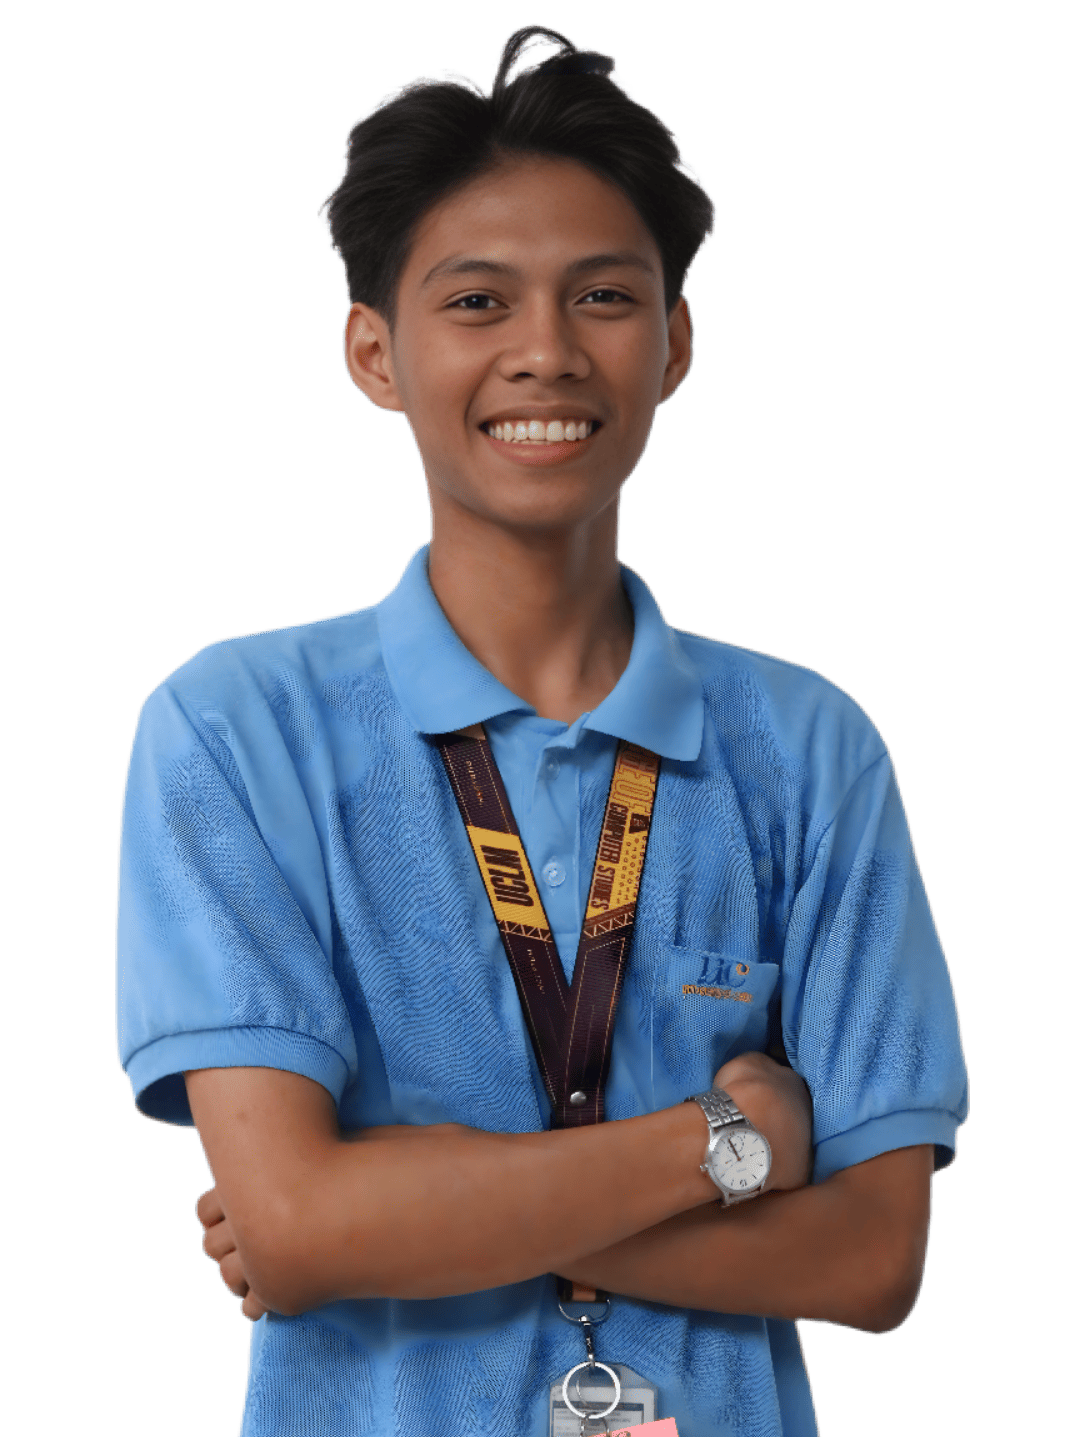
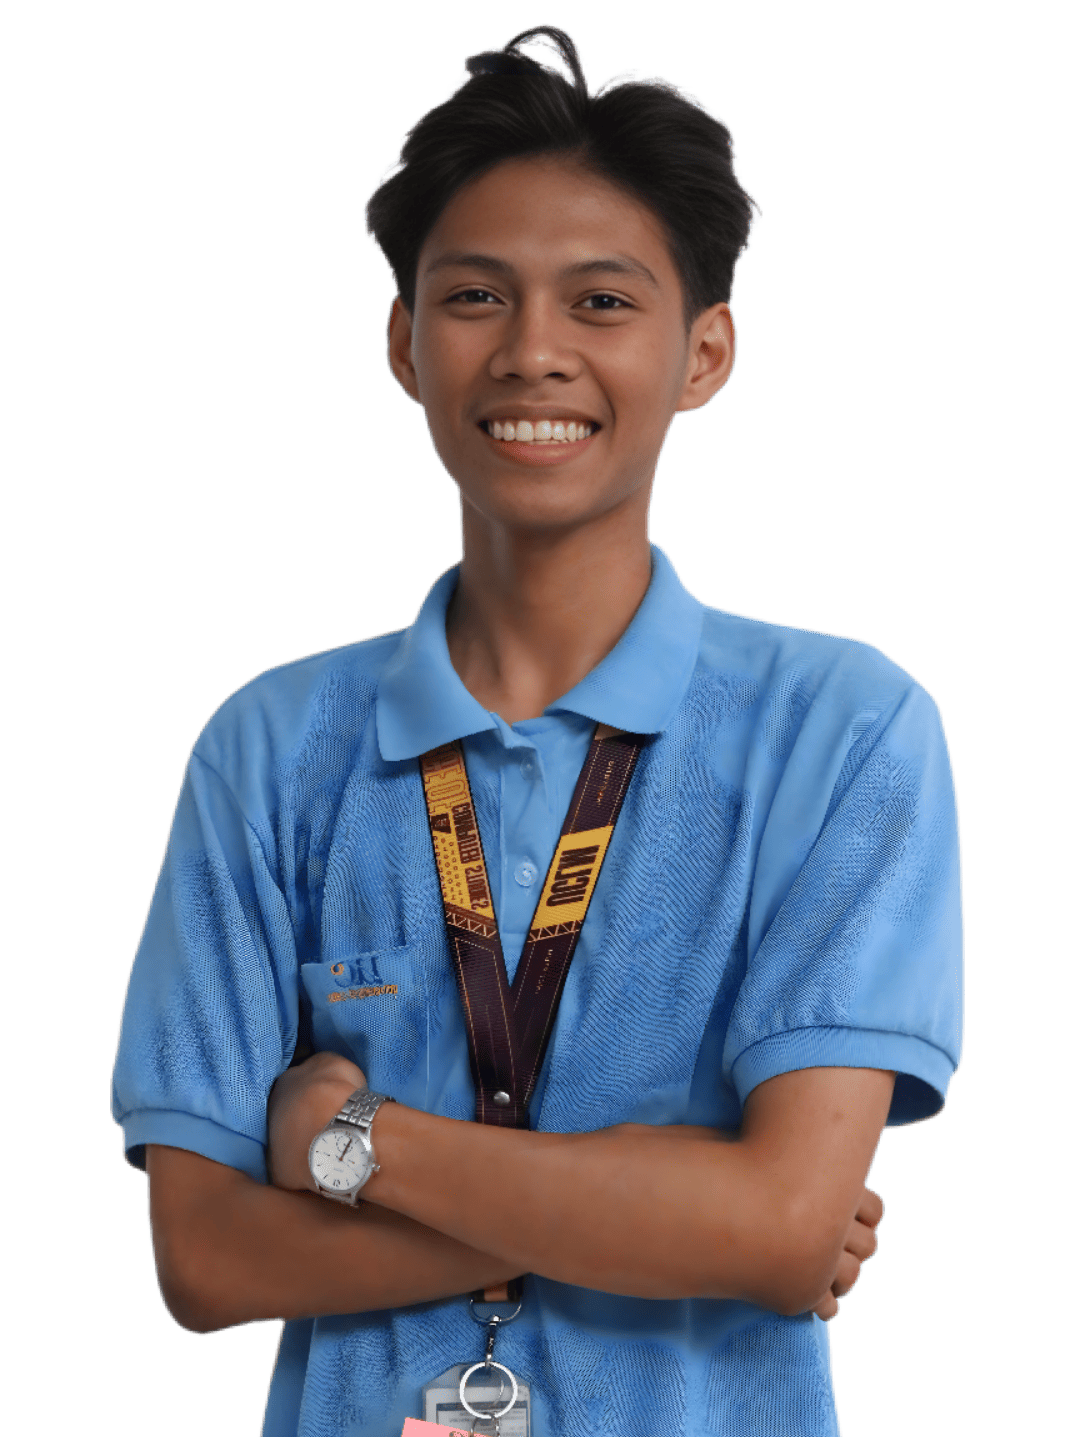
Fixed some layout

diff --git a/frontend/src/pages/Voting.jsx b/frontend/src/pages/Voting.jsx
@@ -60,12 +60,14 @@ export default function Voting() {
       candidates: [
         {
           id: 1,
-          name: "Crista Monica Oscar",
+          fname: "Crista Monica",
+          lname: "Oscar",
           image: "/BEATS/TRANSPARENT_INDIV/OSCAR_PRES.png",
         },
         {
           id: 2,
-          name: "Darren Villanueva",
+          fname: "Darren",
+          lname: "Villanueva",
           image: "/PEAK/PEAK NO BACKGROUND INDIVIDUAL/PRES- VILLANUEVA_.png",
         },
       ],
@@ -77,12 +79,14 @@ export default function Voting() {
       candidates: [
         {
           id: 1,
-          name: "Dan Pierre Pogoy",
+          fname: "Dan Pierre",
+          lname: "Pogoy",
           image: "/BEATS/TRANSPARENT_INDIV/POGOY_VP_INTERNAL.png",
         },
         {
           id: 2,
-          name: "Altheia Daño",
+          fname: "Altheia",
+          lname: "Daño",
           image: "/PEAK/PEAK NO BACKGROUND INDIVIDUAL/VP INTERNAL- DANO.png",
         },
       ],
@@ -94,12 +98,14 @@ export default function Voting() {
       candidates: [
         {
           id: 1,
-          name: "Ryan Pacumio",
+          fname: "Ryan",
+          lname: "Pacumio",
           image: "/BEATS/TRANSPARENT_INDIV/PACUMIO_VP_EXTERNAL.png",
         },
         {
           id: 2,
-          name: "Kane Huxley Book",
+          fname: "Kane Huxley",
+          lname: "Book",
           image: "/PEAK/PEAK NO BACKGROUND INDIVIDUAL/VP EXTERNAL - BOOK.png",
         },
       ],
@@ -111,12 +117,14 @@ export default function Voting() {
       candidates: [
         {
           id: 1,
-          name: "May Lapeña",
+          fname: "May",
+          lname: "Lapeña",
           image: "/BEATS/TRANSPARENT_INDIV/LAPENA_SECRETARY.png",
         },
         {
           id: 2,
-          name: "Diane Mendoza",
+          fname: "Diane",
+          lname: "Mendoza",
           image: "/PEAK/PEAK NO BACKGROUND INDIVIDUAL/SECRETARY - MENDOZA_.png",
         },
       ],
@@ -128,12 +136,14 @@ export default function Voting() {
       candidates: [
         {
           id: 1,
-          name: "Keith Ramises Latonio",
+          fname: "Keith Ramises",
+          lname: "Latonio",
           image: "/BEATS/TRANSPARENT_INDIV/LATONIO_TREASURER.png",
         },
         {
           id: 2,
-          name: "Hanny Jane Enriquez",
+          fname: "Hanny Jane",
+          lname: "Enriquez",
           image:
             "/PEAK/PEAK NO BACKGROUND INDIVIDUAL/TREASURER - ENRIQUEZ_.png",
         },
@@ -146,29 +156,33 @@ export default function Voting() {
       candidates: [
         {
           id: 1,
-          name: "Emmanuel Franz Apawan",
+          fname: "Emmanuel Franz",
+          lname: "Apawan",
           image: "/BEATS/TRANSPARENT_INDIV/APAWAN_AUDITOR.png",
         },
         {
           id: 2,
-          name: "Myka Angela Dumael",
+          fname: "Myka Angela",
+          lname: "Dumael",
           image: "/PEAK/PEAK NO BACKGROUND INDIVIDUAL/AUDIT- DUMAEL.png",
         },
       ],
     },
     {
       id: 7,
-      position: "PIO",
-      title: "PIO",
+      position: "Public Information Officer",
+      title: "PUBLIC INFORMATION \nOFFICER",
       candidates: [
         {
           id: 1,
-          name: "Fiona Monilar",
+          fname: "Fiona",
+          lname: "Monilar",
           image: "/BEATS/TRANSPARENT_INDIV/MONILAR_PIO.png",
         },
         {
           id: 2,
-          name: "Jea Mary Trixy Magallano",
+          fname: "Jea Mary Trixy",
+          lname: "Magallano",
           image:
             "/PEAK/PEAK NO BACKGROUND INDIVIDUAL/P.I OFFICER- MAGALLANO.png",
         },
@@ -181,12 +195,14 @@ export default function Voting() {
       candidates: [
         {
           id: 1,
-          name: "Harry Conde",
+          fname: "Harry",
+          lname: "Conde",
           image: "/BEATS/TRANSPARENT_INDIV/CONDE_CHIEF_OF_CREATIVES.png",
         },
         {
           id: 2,
-          name: "Tristhan Villamor",
+          fname: "Tristhan",
+          lname: "Villamor",
           image:
             "/PEAK/PEAK NO BACKGROUND INDIVIDUAL/CREATIVES - VILLAMOR_.png",
         },
@@ -199,12 +215,14 @@ export default function Voting() {
       candidates: [
         {
           id: 1,
-          name: "Jhoviegen Cuysona",
+          fname: "Jhoviegen",
+          lname: "Cuysona",
           image: "/BEATS/TRANSPARENT_INDIV/CUYSONA_CHIEF_OF_REP.png",
         },
         {
           id: 2,
-          name: "Abijah Shen Regado",
+          fname: "Abijah Shen",
+          lname: "Regado",
           image:
             "/PEAK/PEAK NO BACKGROUND INDIVIDUAL/REPRESENTATIVE - REGADO.png",
         },
@@ -217,12 +235,14 @@ export default function Voting() {
       candidates: [
         {
           id: 1,
-          name: "Aimee Gayle Cogal",
+          fname: "Aimee Gayle",
+          lname: "Cogal",
           image: "/BEATS/TRANSPARENT_INDIV/COGAL_CHIEF_OF_STUDENTDEV.png",
         },
         {
           id: 2,
-          name: "Jeoff Andrew Demecillo",
+          fname: "Jeoff Andrew",
+          lname: "Demecillo",
           image:
             "/PEAK/PEAK NO BACKGROUND INDIVIDUAL/DEVELOPMENT - DEMECILLO.png",
         },
@@ -235,7 +255,8 @@ export default function Voting() {
       candidates: [
         {
           id: 1,
-          name: "Rose Anne Resurreccion",
+          fname: "Rose Anne",
+          lname: "Resurreccion",
           image: "/BEATS/TRANSPARENT_INDIV/RESURRECCION_ACADEMIC_REP.png",
         },
       ],
@@ -247,12 +268,14 @@ export default function Voting() {
       candidates: [
         {
           id: 1,
-          name: "Mary Grace Patalinghug",
+          fname: "Mary Grace",
+          lname: "Patalinghug",
           image: "/BEATS/TRANSPARENT_INDIV/PATALINGHUG_CARE_REP.png",
         },
         {
           id: 2,
-          name: "Nathaniel Ornopia",
+          fname: "Nathaniel",
+          lname: "Ornopia",
           image: "/PEAK/PEAK NO BACKGROUND INDIVIDUAL/CARES REP- ORNOPIA.png",
         },
       ],

diff --git a/frontend/src/components/CandidateCard.jsx b/frontend/src/components/CandidateCard.jsx
@@ -1,11 +1,22 @@
 import React from "react";
 import test_candidate_picture from "../assets/test_candidate_picture.png";
 
-export default function CandidateCard({ name, image, isSelected, onClick}) {
+export default function CandidateCard({
+  fname,
+  lname,
+  image,
+  isSelected,
+  onClick,
+}) {
   return (
-    <div onClick={onClick} className="relative flex justify-center w-max cursor-pointer transition-all duration-300 hover:-translate-y-2 hover:scale-105 group">
-      <div className={`relative rounded-[20px] w-46 h-74 editorial-shadow pt-24 pb-10 px-8 text-center flex flex-col items-center transition-colors duration-300 ${isSelected ? "bg-gradient-to-b from-[#FFA700] to-[#E58000]" : "bg-[#412039] group-hover:bg-[#4a2441]"}`}>
-        <div className="absolute -top-18 left-1/2 -translate-x-1/2 w-[147.3px] h-[220.95px] z-10">
+    <div
+      onClick={onClick}
+      className="relative flex justify-center w-max cursor-pointer transition-all duration-300 hover:-translate-y-2 hover:scale-105 group"
+    >
+      <div
+        className={`relative rounded-[20px] w-46 h-74 editorial-shadow pt-24 pb-10 px-8 text-center flex flex-col items-center transition-colors duration-300 ${isSelected ? "bg-gradient-to-b from-[#FFA700] to-[#E58000]" : "bg-[#412039] group-hover:bg-[#4a2441]"}`}
+      >
+        <div className="absolute -top-24 left-1/2 -translate-x-1/2 w-45 h-65 z-10">
           <div className="relative w-full h-full">
             <img
               alt="Candidate"
@@ -15,8 +26,13 @@ export default function CandidateCard({ name, image, isSelected, onClick}) {
           </div>
         </div>
         <div className="mt-20">
-          <h1 className={`text-xl font-thin tracking-wide leading-none mb-4 ${isSelected ? "text-black font-normal" : "text-white"}`}>
-            {name}
+          <h1
+            className={`text-lg w-40 font-thin tracking-wide leading-none mb-4 ${isSelected ? "text-black font-normal" : "text-white"}`}
+          >
+            <div className="flex flex-col gap-2 w-full mt-6">
+              <span className="text-md font-thin">{fname}</span>
+              <span className="text-md font-thin">{lname}</span>
+            </div>
           </h1>
         </div>
       </div>

diff --git a/frontend/src/components/Voting/CandidatesBanner.jsx b/frontend/src/components/Voting/CandidatesBanner.jsx
@@ -11,7 +11,7 @@ export default function CandidatesBanner({
     <div className="relative overflow-hidden w-full flex flex-col items-center pt-4 pb-20 mb-8">
       <div className="absolute top-0 left-1/2 -translate-x-1/2 z-0 pointer-events-none select-none w-max text-center">
         <div
-          className="text-[250px] text-white opacity-40 font-black tracking-[-0.05em] uppercase whitespace-pre pr-[0.1em]"
+          className="text-[250px] text-white opacity-20 font-black tracking-[-0.05em] uppercase whitespace-pre pr-[0.1em]"
           style={{
             fontFamily: "'Inter', sans-serif",
             fontSize: "clamp(7rem, 20vw, 30rem)",
@@ -30,7 +30,8 @@ export default function CandidatesBanner({
         {candidates.map((candidate) => (
           <CandidateCard
             key={candidate.id}
-            name={candidate.name}
+            fname={candidate.fname}
+            lname={candidate.lname}
             image={candidate.image}
             isSelected={selectedCandidateId === candidate.id}
             onClick={() => onSelectCandidate(candidate.id)}
